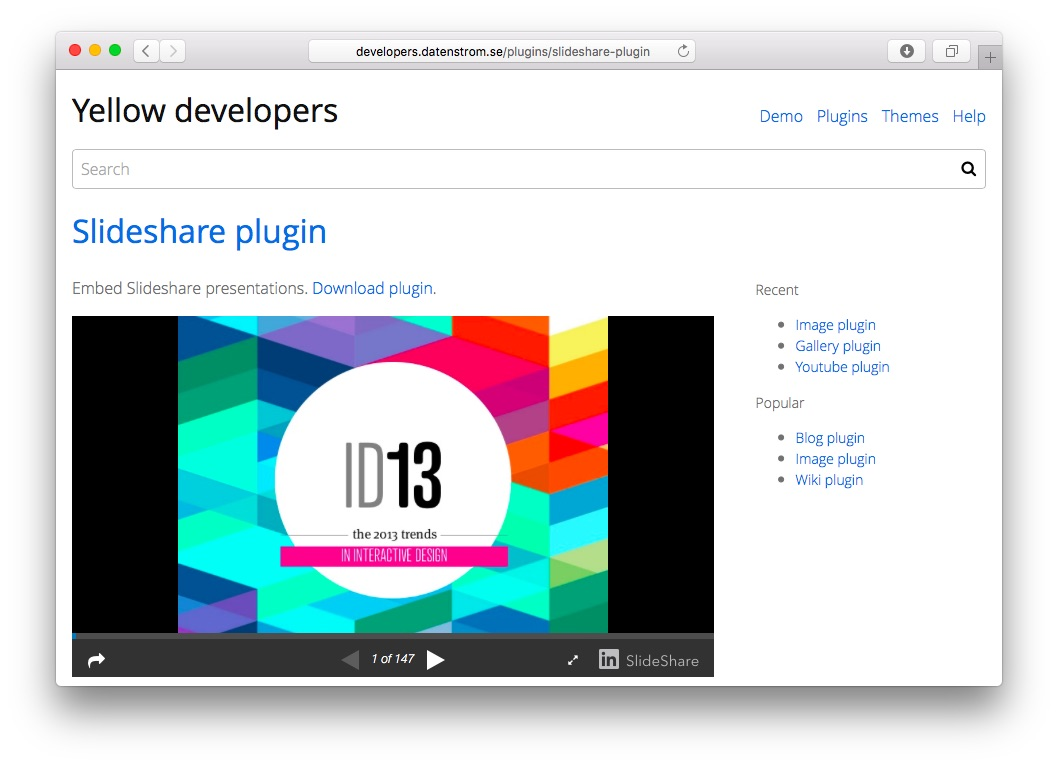
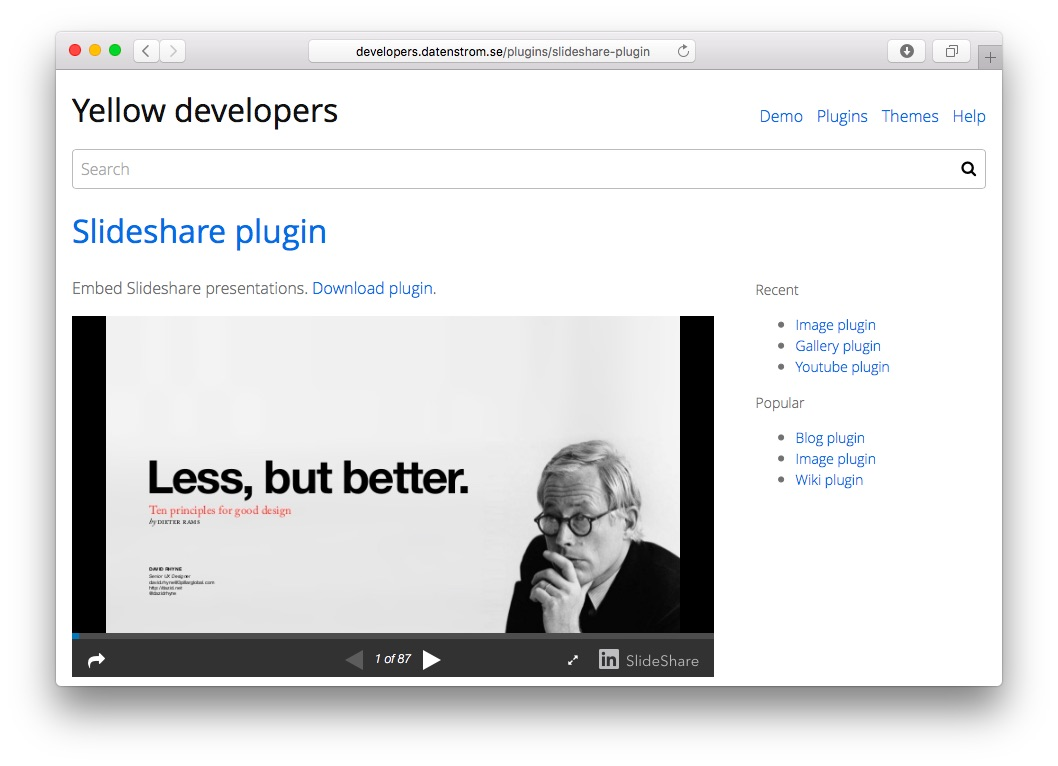
Plugins update (documentation)

Changed region(s): [[0.0936, 0.3903, 0.655, 0.8708]]

diff --git a/slideshare/README.md b/slideshare/README.md
@@ -26,6 +26,6 @@ Example
 -------
 Embedding a presentation:
 
-    [slideshare 16220047]
-    [slideshare 16220047 left 320 200]
-    [slideshare 16220047 right 320 200]
+    [slideshare 37321279]
+    [slideshare 37321279 left 320 200]
+    [slideshare 37321279 right 320 200]
